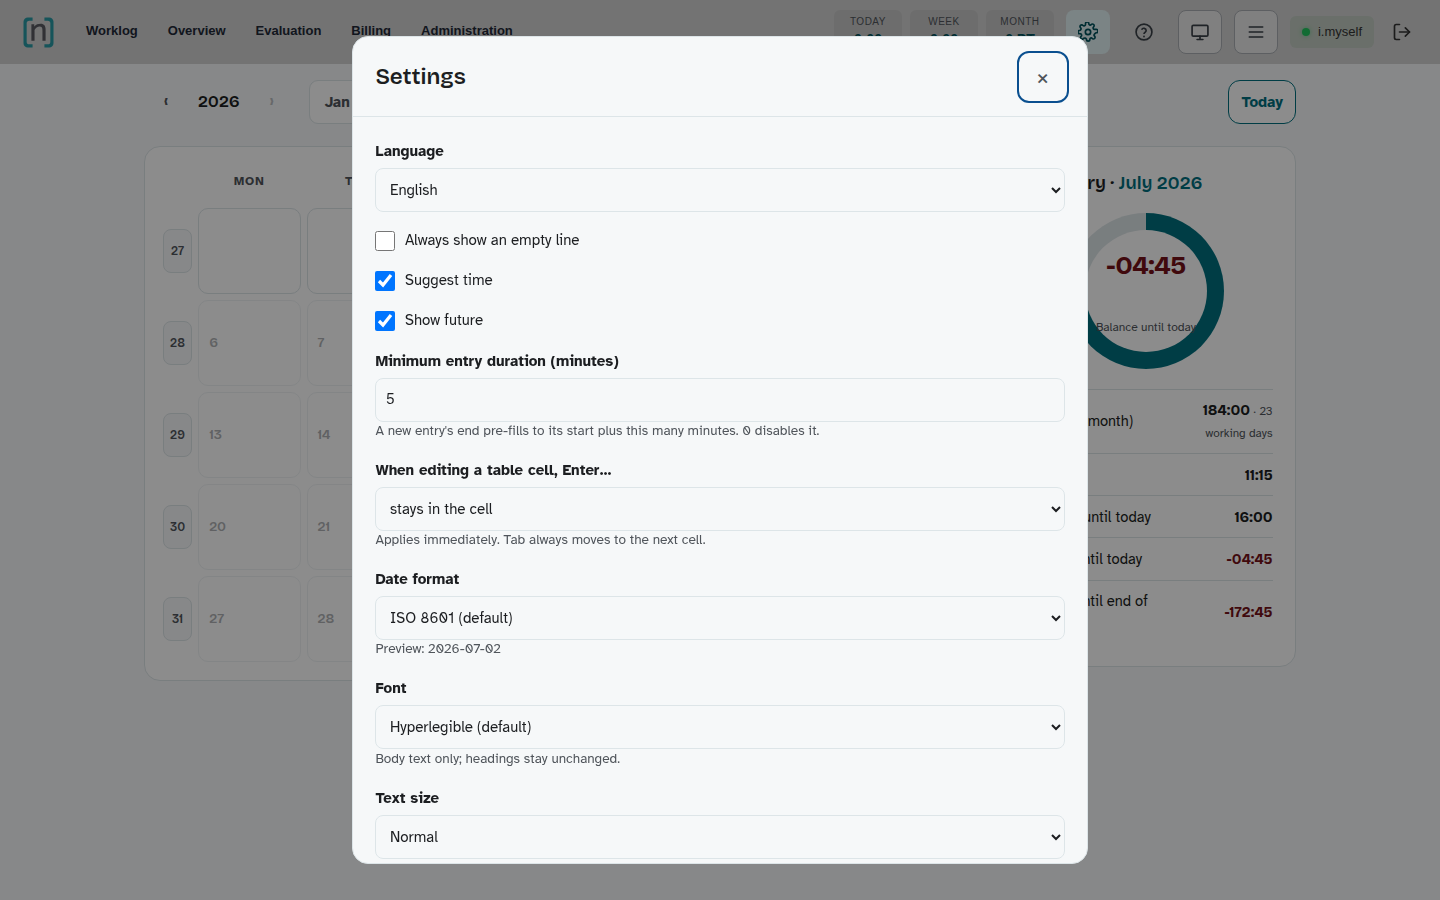
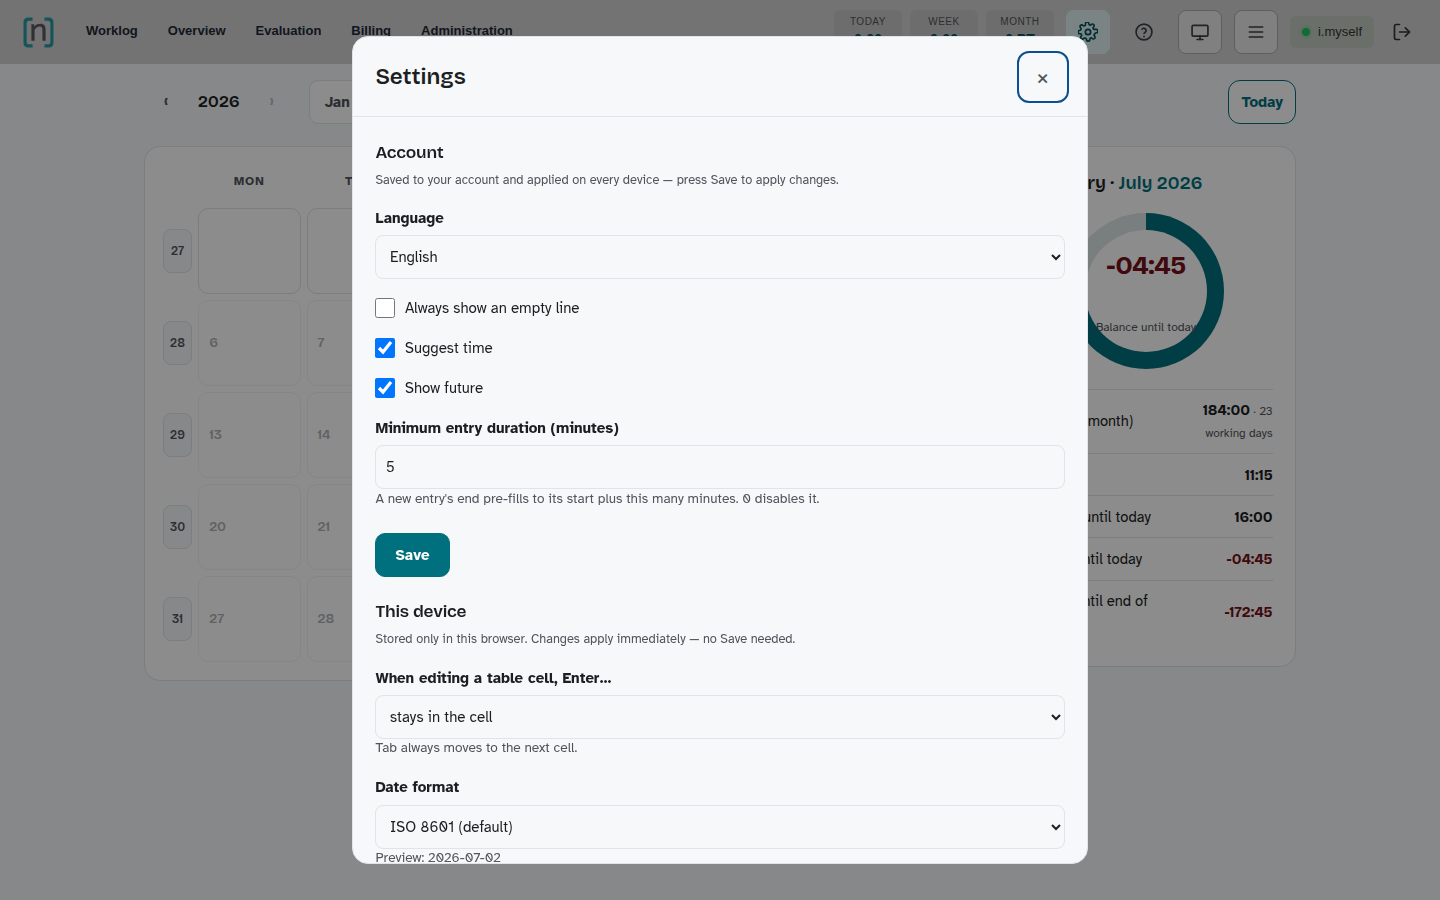
docs: refresh the Settings screenshot for the two-card redesign (#508)
The `docs/images/settings.png` screenshot still showed the pre-#505 flat
dialog. Recaptured at 1440px from the seeded e2e stack: the new
**Account** card (language, behavior toggles, minimum duration, its own
hint and Save button) above the **This device** card (display
preferences that apply instantly).

Also updates the user-guide language line to the five shipped locales
(English, German, Spanish, French, Russian) now that #506 landed, and
sharpens the screenshot alt text.

Docs-only; no code change.

Pull request: docs: refresh the Settings screenshot for the two-card redesign
The `docs/images/settings.png` screenshot still showed the pre-#505 flat dialog. Recaptured at 1440px from the seeded e2e stack: the new **Account** card (language, behavior toggles, minimum duration, its own hint and Save button) above the **This device** card (display preferences that apply instantly).

Also updates the user-guide language line to the five shipped locales (English, German, Spanish, French, Russian) now that #506 landed, and sharpens the screenshot alt text.

Docs-only; no code change.

Changed region(s): [[0.25, 0.1556, 0.5938, 0.9644]]

diff --git a/docs/user-guide.md b/docs/user-guide.md
@@ -278,14 +278,14 @@ In the sidebar layout each panel also gets a quick-add "+" button.
 
 ## Settings
 
-![Settings dialog with language, behavior toggles and display preferences](images/settings.png)
+![Settings dialog: an Account card (language, behavior toggles, minimum duration, Save) above a This device card (display preferences)](images/settings.png)
 
 The ⚙ icon opens your personal settings, grouped into two labeled sections
 with different save semantics:
 
 **Account** — saved to your account and applied on every device; press *Save*:
 
-- **Language** — English or German (reloads the page).
+- **Language** — English, German, Spanish, French or Russian (reloads the page).
 - **Always show an empty line** — keep a blank entry row ready in the Worklog.
 - **Suggest time** — pre-fill new entries' start/end times.
 - **Show future** — include future-dated entries in the Worklog.